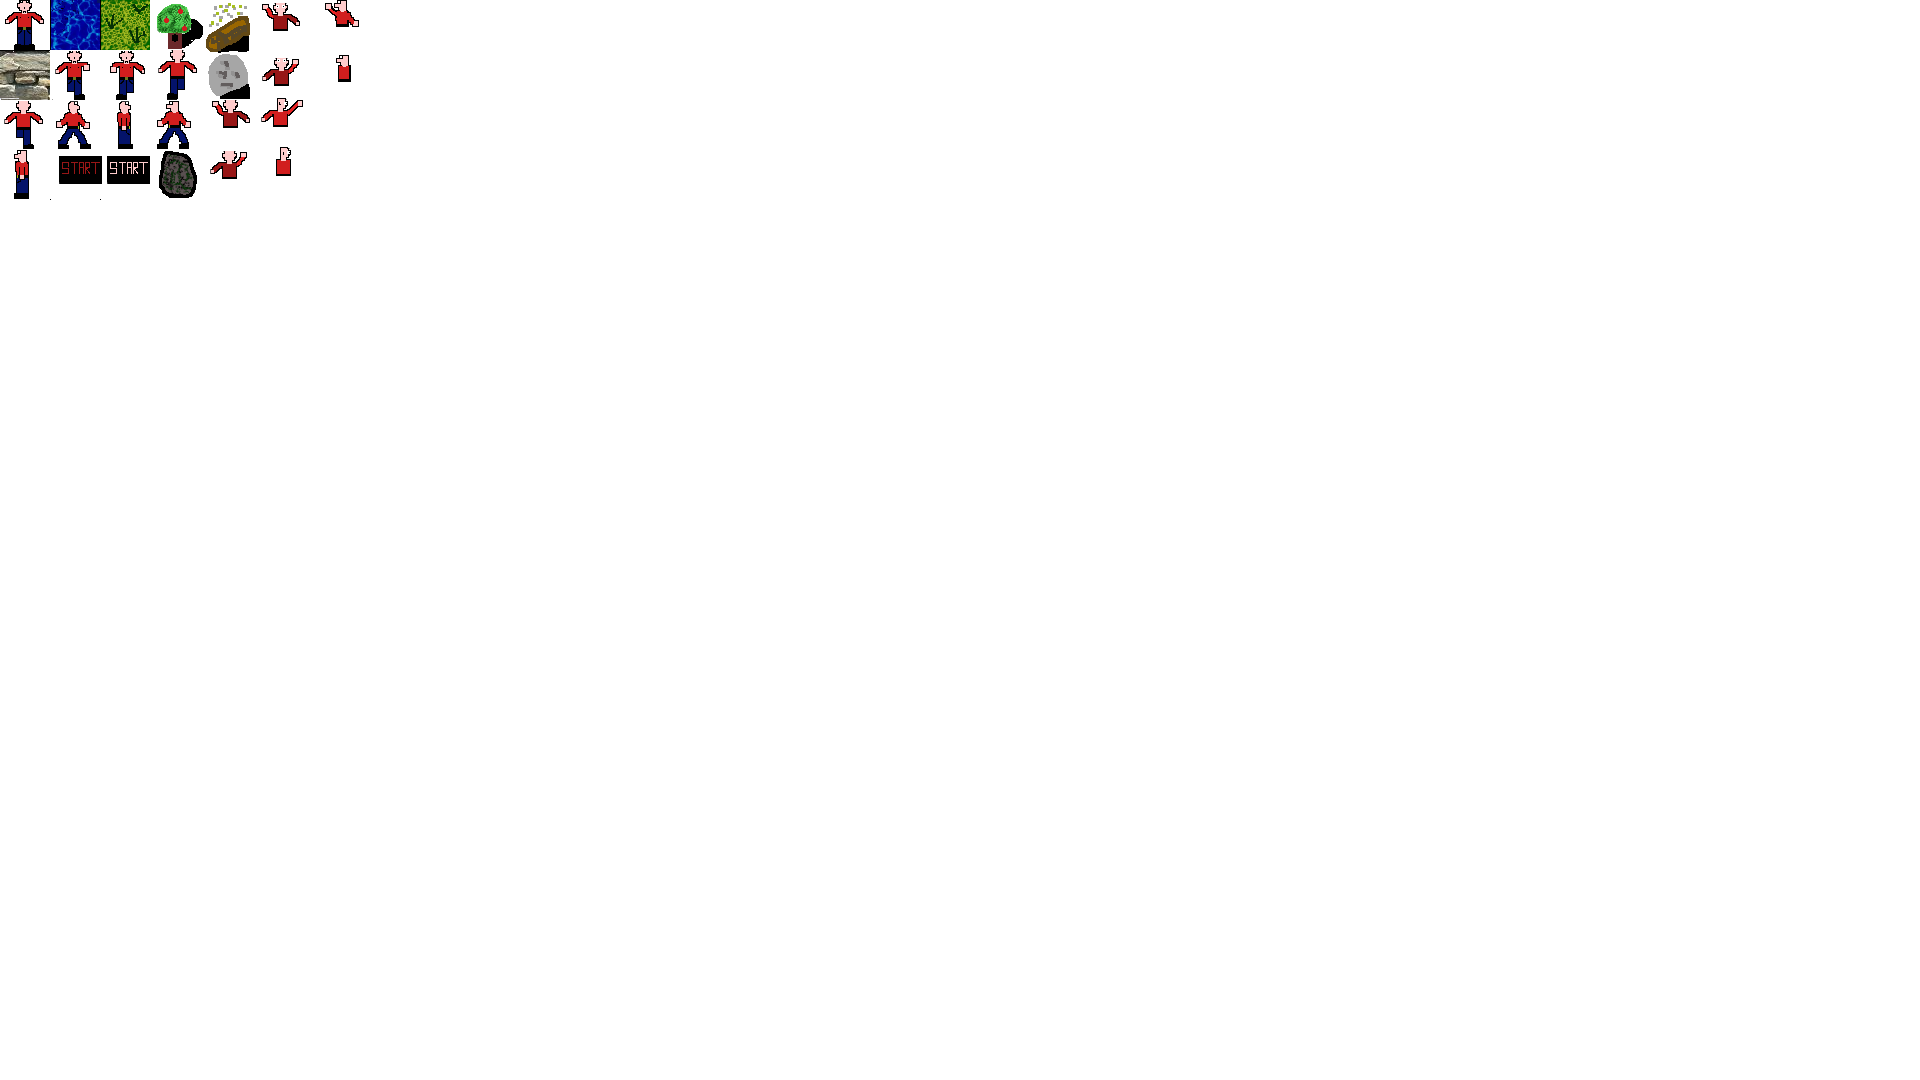
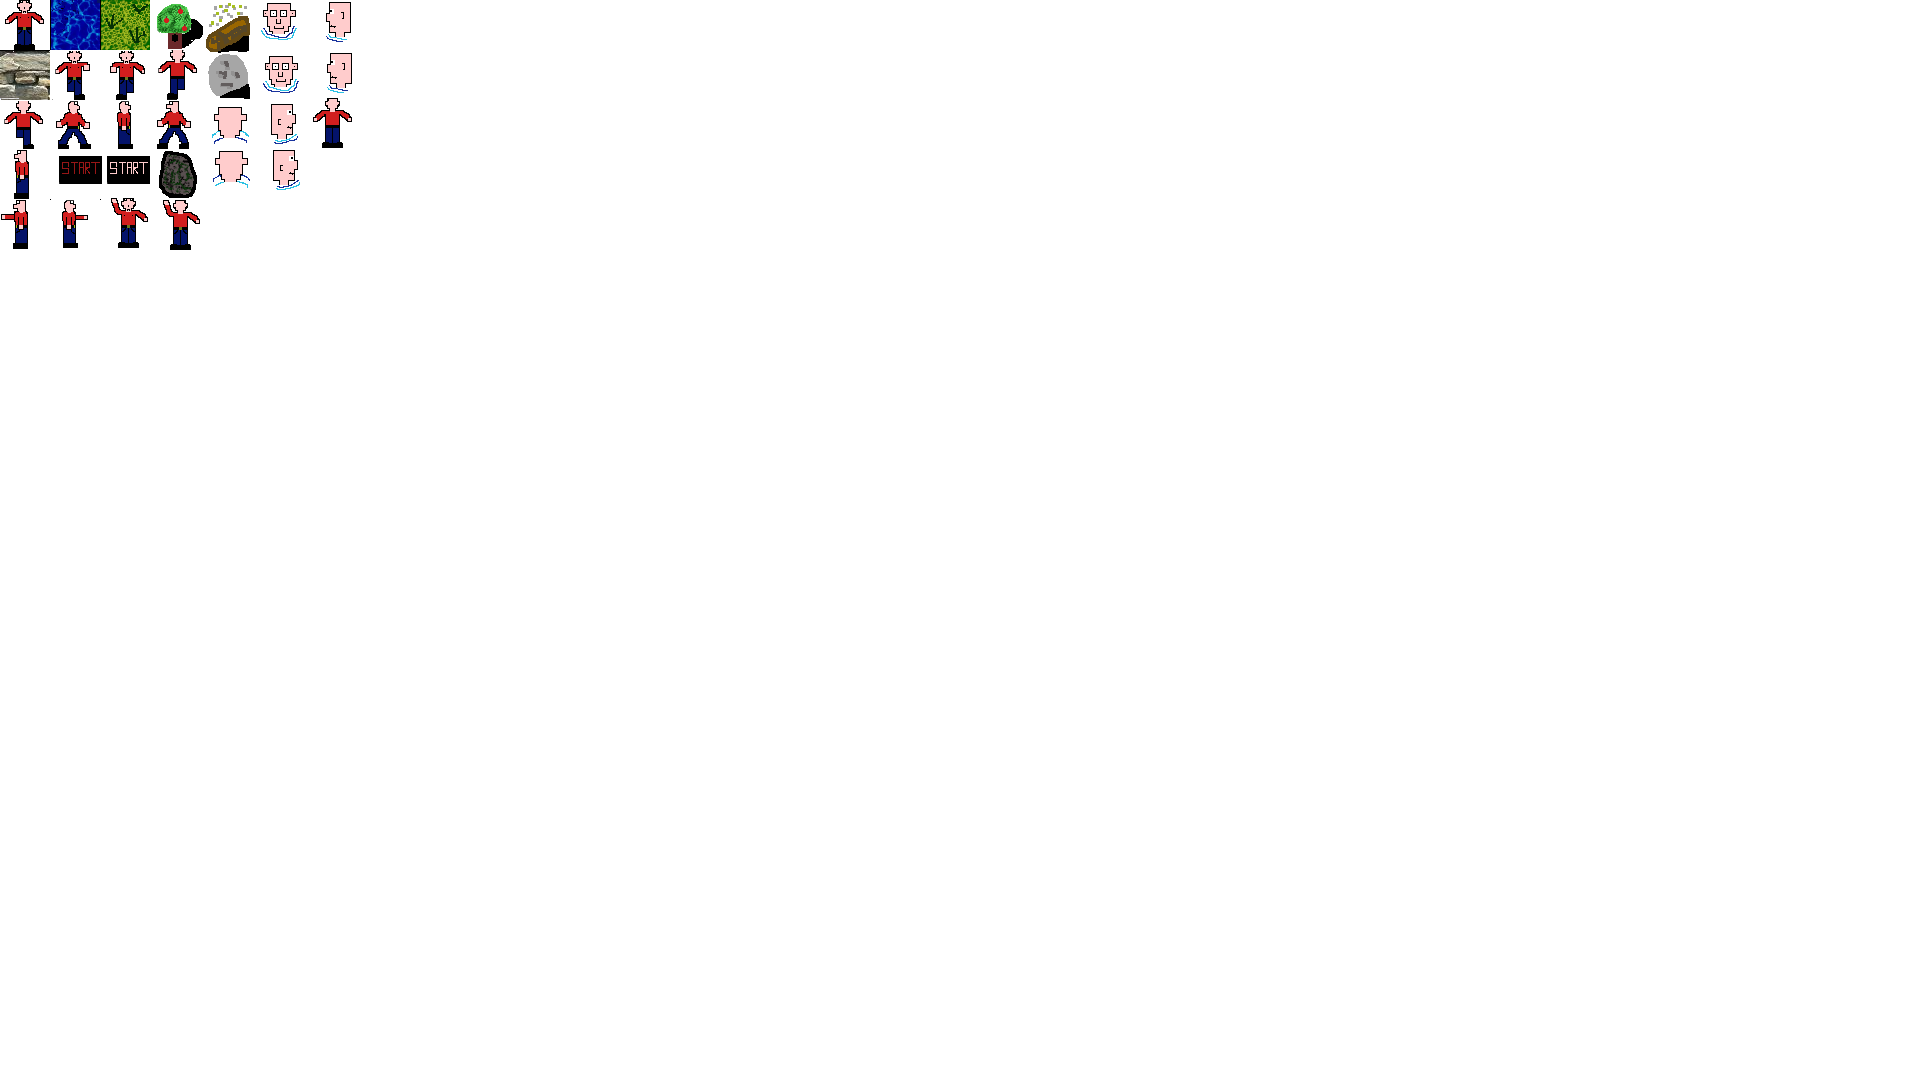
ketp last moved direction and begining of hurt behavior

Changed region(s): [[0.0, 0.0, 0.1875, 0.2444]]

diff --git a/src/game/gfx/Assets.java b/src/game/gfx/Assets.java
@@ -13,7 +13,14 @@ public class Assets {
 	private static BufferedImage stone;
 
 	// Player Animations
-	private static BufferedImage playerStanding;
+	private static BufferedImage playerLeftStanding;
+	private static BufferedImage playerUpStanding;
+	private static BufferedImage playerRightStanding;
+	private static BufferedImage playerDownStanding;
+	private static BufferedImage playerDownStandSwimming;
+	private static BufferedImage playerUpStandSwimming;
+	private static BufferedImage playerLeftStandSwimming;
+	private static BufferedImage playerRightStandSwimming;
 	private static BufferedImage[] playerWalkingLeft;
 	private static BufferedImage[] playerWalkingRight;
 	public static BufferedImage[] playerWalkingUp;
@@ -44,7 +51,16 @@ public class Assets {
 		playerSwimmingLeft = new BufferedImage[2];
 
 		// Player
-		playerStanding = sheet.crop ( 0, 0, CROP_WIDTH, CROP_HEIGHT );
+		playerRightStanding = sheet.crop ( CROP_WIDTH * 2, CROP_HEIGHT * 2, CROP_WIDTH, CROP_HEIGHT );
+		playerLeftStanding = sheet.crop ( 0, CROP_HEIGHT * 3, CROP_WIDTH, CROP_HEIGHT );
+		playerDownStanding = sheet.crop ( 0, 0, CROP_WIDTH, CROP_HEIGHT );
+		playerUpStanding = sheet.crop ( CROP_WIDTH * 6, CROP_HEIGHT * 2, CROP_WIDTH, CROP_HEIGHT );
+
+		playerLeftStandSwimming = sheet.crop ( CROP_WIDTH * 6, 0, CROP_WIDTH, CROP_HEIGHT );
+		playerRightStandSwimming = sheet.crop ( CROP_WIDTH * 5, CROP_HEIGHT * 2, CROP_WIDTH, CROP_HEIGHT );
+		playerDownStandSwimming = sheet.crop ( CROP_WIDTH * 5, 0, CROP_WIDTH, CROP_HEIGHT );
+		playerUpStandSwimming = sheet.crop ( CROP_WIDTH * 4, CROP_HEIGHT * 2, CROP_WIDTH, CROP_HEIGHT );
+
 		// Player walking
 		playerWalkingDown[0] = sheet.crop ( CROP_WIDTH, CROP_HEIGHT, CROP_WIDTH, CROP_HEIGHT );
 		playerWalkingDown[1] = sheet.crop ( CROP_WIDTH * 2, CROP_HEIGHT, CROP_WIDTH, CROP_HEIGHT );
@@ -74,16 +90,6 @@ public class Assets {
 
 	// GETTERS AND SETTERS
 
-	public static BufferedImage getPlayer()
-	{
-		return playerStanding;
-	}
-
-	public static void setPlayer( BufferedImage player )
-	{
-		Assets.playerStanding = player;
-	}
-
 	public static BufferedImage getWater()
 	{
 		return water;
@@ -92,6 +98,86 @@ public class Assets {
 	public static void setWater( BufferedImage water )
 	{
 		Assets.water = water;
+	}
+
+	public static BufferedImage getPlayerDownStandSwimming()
+	{
+		return playerDownStandSwimming;
+	}
+
+	public static void setPlayerDownStandSwimming( BufferedImage playerDownStandSwimming )
+	{
+		Assets.playerDownStandSwimming = playerDownStandSwimming;
+	}
+
+	public static BufferedImage getPlayerUpStandSwimming()
+	{
+		return playerUpStandSwimming;
+	}
+
+	public static void setPlayerUpStandSwimming( BufferedImage playerUpStandSwimming )
+	{
+		Assets.playerUpStandSwimming = playerUpStandSwimming;
+	}
+
+	public static BufferedImage getPlayerLeftStandSwimming()
+	{
+		return playerLeftStandSwimming;
+	}
+
+	public static void setPlayerLeftStandSwimming( BufferedImage playerLeftStandSwimming )
+	{
+		Assets.playerLeftStandSwimming = playerLeftStandSwimming;
+	}
+
+	public static BufferedImage getPlayerRightStandSwimming()
+	{
+		return playerRightStandSwimming;
+	}
+
+	public static void setPlayerRightStandSwimming( BufferedImage playerRightStandSwimming )
+	{
+		Assets.playerRightStandSwimming = playerRightStandSwimming;
+	}
+
+	public static BufferedImage getPlayerLeftStanding()
+	{
+		return playerLeftStanding;
+	}
+
+	public static void setPlayerLeftStanding( BufferedImage playerLeftStanding )
+	{
+		Assets.playerLeftStanding = playerLeftStanding;
+	}
+
+	public static BufferedImage getPlayerUpStanding()
+	{
+		return playerUpStanding;
+	}
+
+	public static void setPlayerUpStanding( BufferedImage playerUpStanding )
+	{
+		Assets.playerUpStanding = playerUpStanding;
+	}
+
+	public static BufferedImage getPlayerRightStanding()
+	{
+		return playerRightStanding;
+	}
+
+	public static void setPlayerRightStanding( BufferedImage playerRightStanding )
+	{
+		Assets.playerRightStanding = playerRightStanding;
+	}
+
+	public static BufferedImage getPlayerDownStanding()
+	{
+		return playerDownStanding;
+	}
+
+	public static void setPlayerDownStanding( BufferedImage playerDownStanding )
+	{
+		Assets.playerDownStanding = playerDownStanding;
 	}
 
 	public static BufferedImage getTree()
@@ -213,6 +299,5 @@ public class Assets {
 	{
 		Assets.stone = stone;
 	}
-	
 
 }

diff --git a/src/game/entity/player/Player.java b/src/game/entity/player/Player.java
@@ -44,6 +44,8 @@ public class Player extends Entity implements MoveAble {
 		bounds.width = 28;
 		bounds.height = 48;
 		// Player Animations
+		playerStanding = Assets.getPlayerDownStanding ();
+
 		playerUpWalk = new Animation ( 300, Assets.playerWalkingUp );
 		playerDownWalk = new Animation ( 300, Assets.getPlayerWalkingDown () );
 		playerLeftWalk = new Animation ( 300, Assets.getPlayerWalkingLeft () );
@@ -59,6 +61,8 @@ public class Player extends Entity implements MoveAble {
 	@Override
 	public void move( float speed )
 	{
+		System.out.println ( moveBehaviour.getEntityFace () );
+
 		if ( handler.getKeyManager ().getPressedKeys ().contains ( AvailableKey.right ) )
 		{
 			moveBehaviour.moveRight ();
@@ -87,28 +91,56 @@ public class Player extends Entity implements MoveAble {
 		        (int) (y + bounds.height + bounds.y) / TileBase.HEIGHT ) instanceof WaterTile )
 		{
 			if ( handler.getKeyManager ().getPressedKeys ().contains ( AvailableKey.right ) )
+			{
+				playerStanding = Assets.getPlayerRightStandSwimming ();
 				return playerRightSwim.getCurrentFrame ();
+			}
 			else if ( handler.getKeyManager ().getPressedKeys ().contains ( AvailableKey.left ) )
+			{
+				playerStanding = Assets.getPlayerLeftStandSwimming ();
 				return playerLeftSwim.getCurrentFrame ();
+			}
 			else if ( handler.getKeyManager ().getPressedKeys ().contains ( AvailableKey.up ) )
+			{
+				playerStanding = Assets.getPlayerUpStandSwimming ();
 				return playerUpSwim.getCurrentFrame ();
+			}
 			else if ( handler.getKeyManager ().getPressedKeys ().contains ( AvailableKey.down ) )
+			{
+				playerStanding = Assets.getPlayerDownStandSwimming ();
 				return playerDownSwim.getCurrentFrame ();
+			}
 			else
-				return Assets.getPlayer ();
+			{
+				return playerStanding;
+			}
 		}
 		else
 		{
 			if ( handler.getKeyManager ().getPressedKeys ().contains ( AvailableKey.right ) )
+			{
+				playerStanding = Assets.getPlayerRightStanding ();
 				return playerRightWalk.getCurrentFrame ();
+			}
 			else if ( handler.getKeyManager ().getPressedKeys ().contains ( AvailableKey.left ) )
+			{
+				playerStanding = Assets.getPlayerLeftStanding ();
 				return playerLeftWalk.getCurrentFrame ();
+			}
 			else if ( handler.getKeyManager ().getPressedKeys ().contains ( AvailableKey.up ) )
+			{
+				playerStanding = Assets.getPlayerUpStanding ();
 				return playerUpWalk.getCurrentFrame ();
+			}
 			else if ( handler.getKeyManager ().getPressedKeys ().contains ( AvailableKey.down ) )
+			{
+				playerStanding = Assets.getPlayerDownStanding ();
 				return playerDownWalk.getCurrentFrame ();
+			}
 			else
-				return Assets.getPlayer ();
+			{
+				return playerStanding;
+			}
 		}
 	}
 

diff --git a/src/game/entity/MoveBehaviour.java b/src/game/entity/MoveBehaviour.java
@@ -8,15 +8,21 @@ public class MoveBehaviour {
 
 	private final MoveAble entity;
 	private float speed;
+	private int entityFace;
+	// 0 = to up
+	// 1 = to right
+	// 2 = to down
+	// 3 = to left
 
 	public MoveBehaviour( MoveAble entity, float speed ) {
 		this.speed = speed;
 		this.entity = entity;
+		entityFace = 0;
 	}
 
 	public void moveUp()
 	{
-
+		entityFace = 0;
 		int ty = (int) ((entity.getY () + entity.getBounds ().y - speed) / TileBase.HEIGHT);
 
 		if ( entity.getHandler ().getWorld ()
@@ -37,29 +43,10 @@ public class MoveBehaviour {
 		}
 	}
 
-	public void moveLeft()
-	{
-		int tx = (int) (entity.getX () - speed + entity.getBounds ().x) / TileBase.WIDTH;
-
-		if ( entity.getHandler ().getWorld ().getTile ( tx,
-		        (int) ((entity.getY () + entity.getBounds ().y) / TileBase.HEIGHT) ) instanceof Solid
-		        || entity.getHandler ().getWorld ().getTile ( tx,
-		                (int) ((entity.getY () + +entity.getBounds ().y + entity.getBounds ().height)
-		                        / TileBase.HEIGHT) ) instanceof Solid )
-		{
-		}
-		else if ( entity.checkEntityCollision ( -speed, 0f ) )
-		{
-		}
-		else
-		{
-			speed = entity.getSpeed () - checkNotSolidTile ();
-			entity.setX ( entity.getX () - speed );
-		}
-	}
-
 	public void moveRight()
 	{
+
+		entityFace = 1;
 
 		int tx = (int) (entity.getX () + speed + entity.getBounds ().x + entity.getBounds ().width) / TileBase.WIDTH;
 
@@ -83,6 +70,7 @@ public class MoveBehaviour {
 
 	public void moveDown()
 	{
+		entityFace = 2;
 		int ty = (int) ((entity.getY () + entity.getBounds ().y + speed + entity.getBounds ().height)
 		        / TileBase.HEIGHT);
 		if ( entity.getHandler ().getWorld ()
@@ -100,6 +88,34 @@ public class MoveBehaviour {
 			speed = entity.getSpeed () - checkNotSolidTile ();
 			entity.setY ( entity.getY () + speed );
 		}
+	}
+
+	public void moveLeft()
+	{
+
+		entityFace = 3;
+		int tx = (int) (entity.getX () - speed + entity.getBounds ().x) / TileBase.WIDTH;
+
+		if ( entity.getHandler ().getWorld ().getTile ( tx,
+		        (int) ((entity.getY () + entity.getBounds ().y) / TileBase.HEIGHT) ) instanceof Solid
+		        || entity.getHandler ().getWorld ().getTile ( tx,
+		                (int) ((entity.getY () + +entity.getBounds ().y + entity.getBounds ().height)
+		                        / TileBase.HEIGHT) ) instanceof Solid )
+		{
+		}
+		else if ( entity.checkEntityCollision ( -speed, 0f ) )
+		{
+		}
+		else
+		{
+			speed = entity.getSpeed () - checkNotSolidTile ();
+			entity.setX ( entity.getX () - speed );
+		}
+	}
+
+	public int getEntityFace()
+	{
+		return entityFace;
 	}
 
 	private int checkNotSolidTile()

diff --git a/src/game/entity/HurtBehavior.java b/src/game/entity/HurtBehavior.java
@@ -1,0 +1,14 @@
+package game.entity;
+
+public class HurtBehavior implements HurtAble {
+
+	public HurtBehavior() {
+
+	}
+
+	@Override
+	public void hurt( int amt )
+	{
+	}
+
+}

diff --git a/src/game/entity/HurtAble.java b/src/game/entity/HurtAble.java
@@ -1,0 +1,6 @@
+package game.entity;
+
+public interface HurtAble {
+
+	void hurt( int amt );
+}
